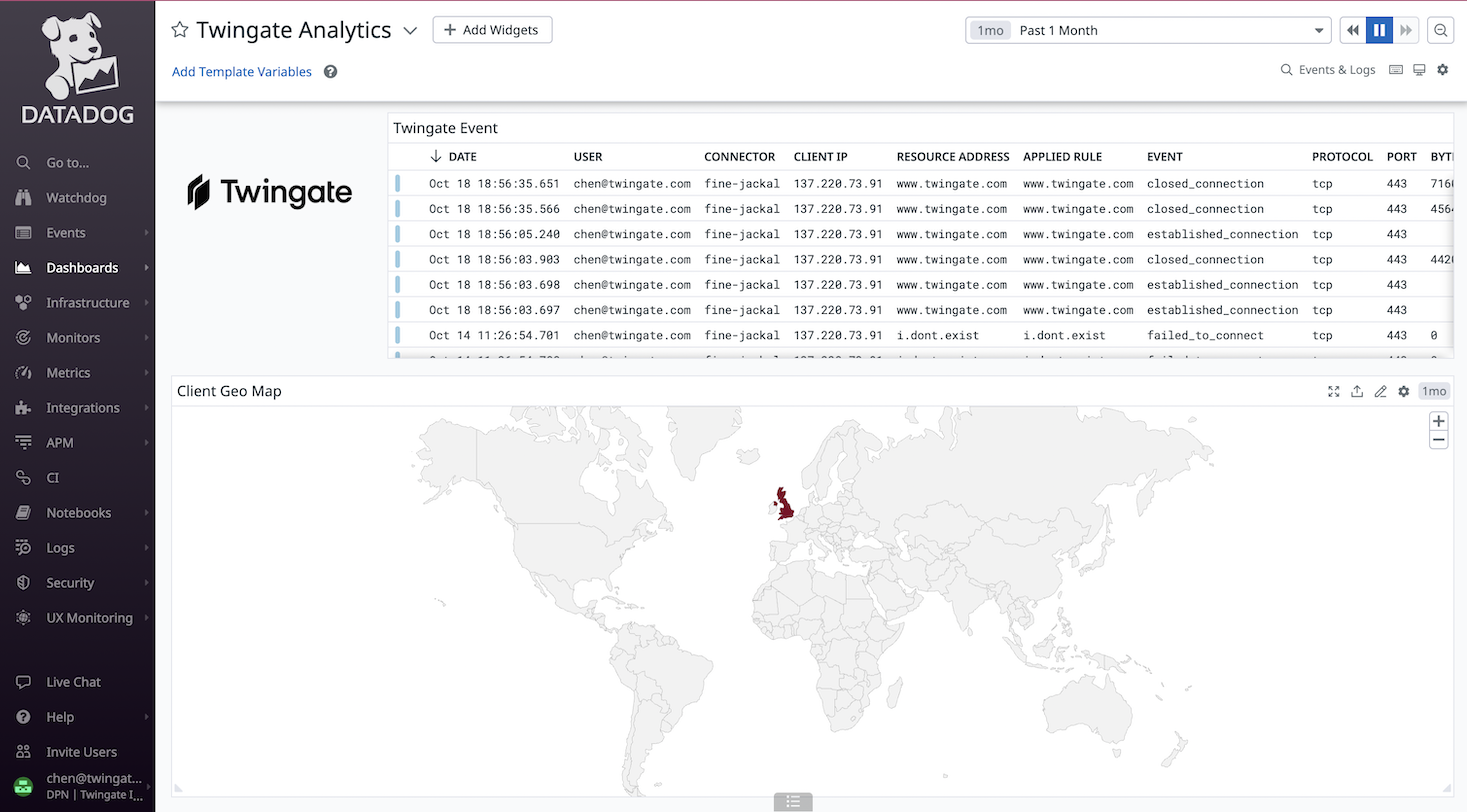
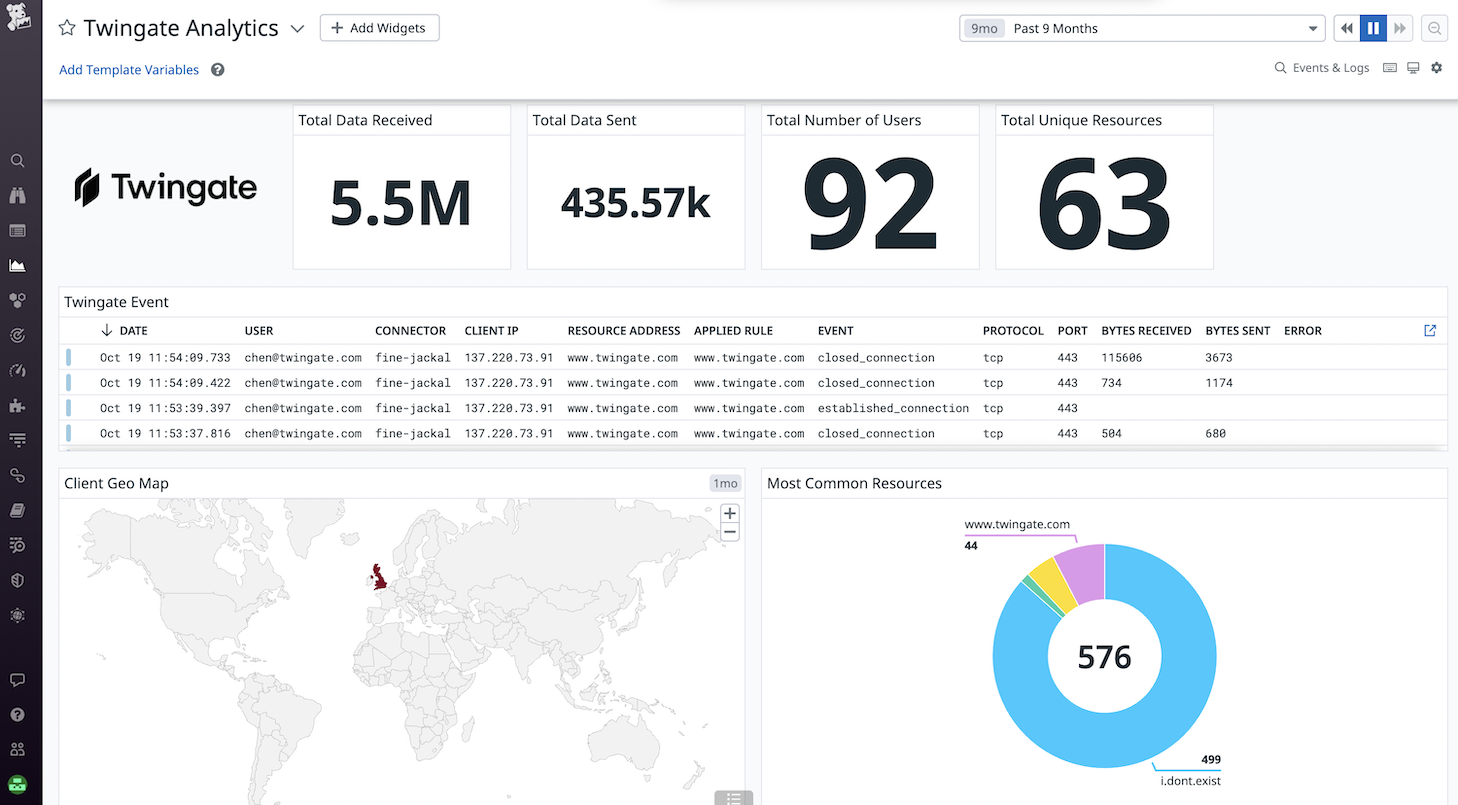
improved dashboard and its screenshot

diff --git a/twingate/README.md b/twingate/README.md
@@ -5,6 +5,8 @@
 
 This integration allows organizations to monitor a user's resource access activities in real-time.
 
+![Dashboard Preview][8]
+
 ## Setup
 ### Pre-requisite
 1. You must have the Datadog Agent installed on the Twingate Connector server. You also must be able to connect to that host and be able to edit the files so as to configure the Agent and YAML Integration Configs. Refer to [these instructions](https://docs.datadoghq.com/getting_started/agent/) to install the Datadog Agent.
@@ -63,10 +65,6 @@ This integration allows organizations to monitor a user's resource access activi
    * Device ID `@device.id`
    * Error `@connection.error_message`
    * Location `@connection.client_geo.country.iso_code`
-
-### Dashboard Preview
-![Dashboard Preview][8]
-
 
 
 ## Troubleshooting

diff --git a/twingate/CHANGELOG.md b/twingate/CHANGELOG.md
@@ -1,4 +1,4 @@
 # CHANGELOG - Twingate
 
 ## 1.0.0 / 2022-10-20
-* [FEATURE] Initial Twingate-Datadog integration release.
+* [FEATURE] Initial Twingate Integration Tile.
